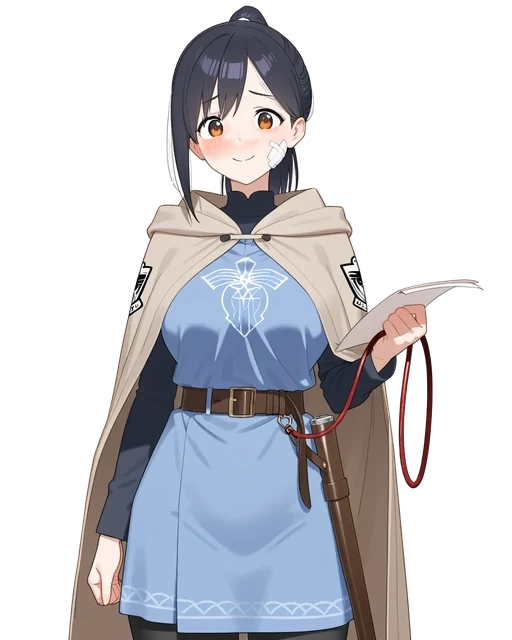
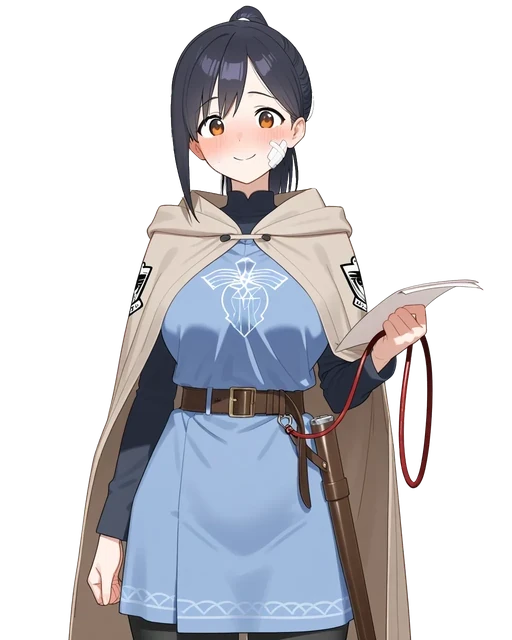
ソレンヌの髪の抜きを直す：髪のすき間の白い地と細い線を消して抜き直し、差分は顔だけを基本に重ねる。怒りを眉を寄せて口を結んだ顔に作り直す
Claude-Session: https://claude.ai/code/session_011Kp4AbAXdzXbnvYnjXXoLh

diff --git a/docs/art/redesign/solenne/hairkey.py b/docs/art/redesign/solenne/hairkey.py
@@ -1,0 +1,93 @@
+# 髪の縁の抜き直し：birefnet の柔らかいマスクに、白い地との色の差で作る透明度を重ねる（暗い髪のまわりの帯だけ）
+#   白い地のすき間（外の白とつながる明るい所）は透明に、髪の中の暗い所は不透明にする
+# 使い方：python hairkey.py src.png(白い地) out.webp [band_px=28] [lum_max=150] [box x0,y0,x1,y1(元の大きさ。帯をこの中だけに)]
+import sys
+import numpy as np
+from PIL import Image
+from scipy import ndimage
+from rembg import new_session, remove
+src, dst = sys.argv[1], sys.argv[2]
+band_px = int(sys.argv[3]) if len(sys.argv) > 3 else 28
+lum_max = float(sys.argv[4]) if len(sys.argv) > 4 else 150
+# 箱の末尾に ",t" を付けた箱だけ、細く飛び出した線も消す
+boxes = [b.split(",") for b in sys.argv[5].split(";")] if len(sys.argv) > 5 else []
+tb = [[int(v) for v in b[:4]] for b in boxes if len(b) > 4 and b[4] == "t"]
+boxes = [[int(v) for v in b[:4]] for b in boxes]
+box = None
+im = Image.open(src).convert("RGB"); c = np.array(im).astype(np.float32); H, W = c.shape[:2]
+a = np.array(remove(im, session=new_session("birefnet-general"), only_mask=True, post_process_mask=False)).astype(np.float32) / 255
+a[a < 0.04] = 0; a[a > 0.96] = 1
+lab, n = ndimage.label(a > 0.5)
+if n > 1:
+    sz = ndimage.sum(np.ones_like(a), lab, range(1, n + 1)); big = lab == (int(np.argmax(sz)) + 1)
+    a = np.where(ndimage.binary_dilation(big, iterations=6), a, 0)
+lum = c @ np.array([0.299, 0.587, 0.114], np.float32)
+# 帯：外（a<0.5）から band_px 以内
+dout = ndimage.distance_transform_edt(a >= 0.5)
+band = dout <= band_px
+if box is not None:
+    bm = np.zeros_like(band); bm[box[1]:box[3], box[0]:box[2]] = True; band &= bm
+# 近くの不透明で暗い色（髪）
+dark = (a > 0.9) & (lum < lum_max)
+dark = ndimage.binary_erosion(dark, iterations=1)
+dd, (iy, ix) = ndimage.distance_transform_edt(~dark, return_indices=True)
+f = c[iy, ix]
+near = band & (dd <= 10)
+# 白い地との混ざり具合：c = a*f + (1-a)*255
+den = np.maximum(255 - f, 1).sum(-1)
+ac = np.clip(((255 - c) * (255 - f)).sum(-1) / np.maximum(((255 - f) ** 2).sum(-1), 1), 0, 1)
+# 外の白とつながる白い地（髪のすき間）。肌を拾わないよう、白はかなり白く・色みの無い所だけ
+chroma = c.max(-1) - c.min(-1)
+white = (c.min(-1) > 236) & (chroma < 12)
+wl, wn = ndimage.label(white | (a < 0.05))
+ids = np.unique(np.concatenate([wl[0], wl[-1], wl[:, 0], wl[:, -1]])); ids = ids[ids > 0]
+gap = band & np.isin(wl, ids) & white & (a > 0.04)
+# 外とつながらない白い筋（髪と細い線のあいだ）：白い塊のほとんどが帯の中にある物
+bl, bn = ndimage.label(white)
+if bn:
+    tot = ndimage.sum(np.ones_like(a), bl, range(1, bn + 1)); inb = ndimage.sum(band, bl, range(1, bn + 1))
+    nd = ndimage.minimum(dd, bl, range(1, bn + 1))
+    keep = [j + 1 for j in range(bn) if inb[j] >= 0.9 * tot[j] and nd[j] <= 4]
+    hb = np.zeros_like(band)
+    for b in boxes: hb[b[1]:b[3], b[0]:b[2]] = True
+    gap |= np.isin(bl, keep) & band & hb & (a > 0.04)
+# 髪の箱の中：明るい灰色のすき間も（白ほど白くない筋）、細く飛び出した線（枝毛）も消す
+hb = np.zeros_like(band)
+for b in boxes: hb[b[1]:b[3], b[0]:b[2]] = True
+if boxes:
+    w2 = (c.min(-1) > 185) & (chroma < 16) & hb & band
+    bl2, bn2 = ndimage.label(w2)
+    if bn2:
+        nd2 = ndimage.minimum(dd, bl2, range(1, bn2 + 1))
+        gap |= np.isin(bl2, [j + 1 for j in range(bn2) if nd2[j] <= 4]) & (a > 0.04)
+    al = (a > 0.15) & ~gap
+    core = ndimage.binary_dilation(ndimage.binary_opening(al, structure=np.ones((7, 7))), iterations=1)
+    ht = np.zeros_like(band)
+    for b in tb: ht[b[1]:b[3], b[0]:b[2]] = True
+    thin = al & ~core & ht & band
+    gap |= thin
+    print("thin", int(thin.sum()))
+a2 = a.copy()
+a2[gap] = 0
+ring = ndimage.binary_dilation(gap, iterations=2) & ~gap & band & (chroma < 30) & (dd <= 6)
+a2[ring] = np.minimum(a[ring], ac[ring])
+# 髪の中の暗い所の半透明は不透明に寄せる
+semi = band & (lum < lum_max) & (a > 0.04) & (a < 0.95) & (dd <= 2)
+a2[semi] = np.maximum(a[semi], ac[semi])
+a2[a2 < 0.04] = 0; a2[a2 > 0.96] = 1
+near = gap | ring | semi
+print("changed px", int((np.abs(a2 - a) > 0.1).sum()), "gap", int(gap.sum()), "ring", int(ring.sum()), "semi", int(semi.sum()))
+a = a2
+fg = (c - (1 - a[..., None]) * 255) / np.maximum(a[..., None], 1e-3)
+solid = a > 0.95; _, (iy, ix) = ndimage.distance_transform_edt(~solid, return_indices=True)
+bad = (a < 0.95) & ((fg < -10).any(-1) | (fg > 265).any(-1) | (a < 0.25))
+fg = np.where(near[..., None] & ~bad[..., None], np.clip(fg, 0, 255), fg)
+fg = np.where(bad[..., None], c[iy, ix], np.clip(fg, 0, 255))
+pm = fg * a[..., None]
+ow, oh = (512, 640) if (W, H) == (1024, 1280) else (W, H)
+small = np.array(Image.fromarray(pm.round().astype(np.uint8)).resize((ow, oh), Image.LANCZOS)).astype(np.float32)
+sa = np.array(Image.fromarray((a * 255).round().astype(np.uint8)).resize((ow, oh), Image.LANCZOS)).astype(np.float32)
+rgb = np.clip(small / np.maximum(sa[..., None] / 255, 1e-3), 0, 255); rgb[sa < 1] = 0
+Image.fromarray(np.dstack([rgb, sa]).round().astype(np.uint8), "RGBA").save(dst, "WEBP", quality=90, alpha_quality=100, method=6)
+np.save(dst + ".a.npy", a)
+print(dst)

diff --git a/docs/art/redesign/solenne/solenne_var.py b/docs/art/redesign/solenne/solenne_var.py
@@ -4,10 +4,10 @@ from PIL import Image
 R = "../redesign/"
 base = json.load(open(R + "solenne_15612.json", encoding="utf-8"))
 src = base64.b64encode(open(R + "solenne_15612.png", "rb").read()).decode()
-V = {"joy": "(embarrassed smile:1.4), (blush:1.2), (happy:1.2), closed mouth", "anger": "(angry:1.5), (v-shaped eyebrows:1.4), (shouting:1.2), (open mouth:1.2), (blush:1.1)", "sorrow": "(sad:1.5), (teary eyes:1.3), (frown:1.3), (worried eyebrows:1.3)", "fun": "(laughing:1.4), (smile:1.4), (open mouth:1.2), (closed eyes:1.2)", "shy": "(embarrassed:1.5), (heavy blush:1.5), (looking away:1.4), (wavy mouth:1.2)"}
+V = {"joy": "(embarrassed smile:1.4), (blush:1.2), (happy:1.2), closed mouth", "anger": "(angry:1.5), (v-shaped eyebrows:1.4), (shouting:1.2), (open mouth:1.2), (blush:1.1)", "sorrow": "(sad:1.5), (teary eyes:1.3), (frown:1.3), (worried eyebrows:1.3)", "fun": "(laughing:1.4), (smile:1.4), (open mouth:1.2), (closed eyes:1.2)", "anger2": "(angry:1.3), (furrowed brow:1.5), (v-shaped eyebrows:1.3), (closed mouth:1.5), (pursed lips:1.2), glaring, (serious:1.2)", "anger3": "(angry:1.6), (v-shaped eyebrows:1.6), (glaring:1.4), (narrowed eyes:1.2), (closed mouth:1.4), (frown:1.3)", "shy": "(embarrassed:1.5), (heavy blush:1.5), (looking away:1.4), (wavy mouth:1.2)"}
 OLD = "serious, frown, closed mouth"
 assert OLD in base["prompt"]
-NEGX = ", (anger vein:1.5), comical, chibi, (dog:1.6), (knight:1.5), (armor:1.5)"
+NEGX = ", (tears:1.5), (crying:1.5), (teary eyes:1.4), (sad:1.3), (open mouth:1.3), (worried eyebrows:1.4), (anger vein:1.5), comical, chibi, (dog:1.6), (knight:1.5), (armor:1.5)"
 den = float(os.environ.get("DEN", 0.5))
 for m in sys.argv[1].split(","):
     for sd in [int(s) for s in (sys.argv[2].split(",") if len(sys.argv) > 2 else ["15612"])]:

diff --git a/docs/art/redesign/solenne/facepaste.py b/docs/art/redesign/solenne/facepaste.py
@@ -1,0 +1,27 @@
+# 基本の絵に、差分の顔（目・眉・口・頬・前髪の下の方）だけを楕円でぼかして重ねる。透明は基本のまま
+import sys, os
+import numpy as np
+from PIL import Image
+from scipy import ndimage
+cx, cy, rx, ry, fe = [float(v) for v in sys.argv[1].split(",")]
+b = np.array(Image.open("src/solenne.webp").convert("RGBA")).astype(np.float32)
+H, W = b.shape[:2]; yy, xx = np.mgrid[:H, :W]
+d = np.sqrt(((xx - cx) / rx) ** 2 + ((yy - cy) / ry) ** 2)
+m = np.clip((1 - d) * min(rx, ry) / fe, 0, 1)
+os.makedirs("fp_out", exist_ok=True)
+# 絆創膏（守る所）は基本から戻す：基本と差分の白い所を合わせた形＋縁 3px
+def bandage(x):
+    bw = (x[..., :3].min(-1) > 215) & (x[..., :3].max(-1) - x[..., :3].min(-1) < 9)
+    bb = np.zeros((H, W), bool); bb[132:172, 260:300] = True
+    lab, n = ndimage.label(bw & bb)
+    if not n: return np.zeros((H, W), bool)
+    sz = ndimage.sum(bw & bb, lab, range(1, n + 1))
+    return ndimage.binary_fill_holes(ndimage.binary_closing(lab == int(np.argmax(sz)) + 1, iterations=3))
+bb0 = bandage(b)
+for v in sys.argv[2].split(","):
+    a = np.array(Image.open(f"src/solenne_{v}.webp").convert("RGBA")).astype(np.float32)
+    bm = ndimage.gaussian_filter(ndimage.binary_dilation(bb0 | bandage(a), iterations=3).astype(np.float32), 1)
+    mm = (m * (1 - bm) * (a[..., 3] > 250) * (b[..., 3] > 250))[..., None]
+    o = b.copy(); o[..., :3] = b[..., :3] * (1 - mm) + a[..., :3] * mm
+    Image.fromarray(o.round().astype(np.uint8), "RGBA").save(f"fp_out/solenne_{v}.webp", "WEBP", quality=90, alpha_quality=100, method=6)
+Image.fromarray((m * 255).astype(np.uint8)).save("fp_out/mask.png")
